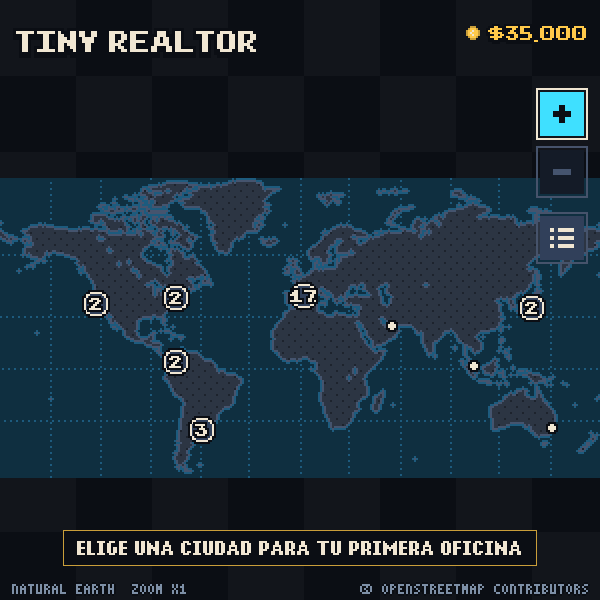
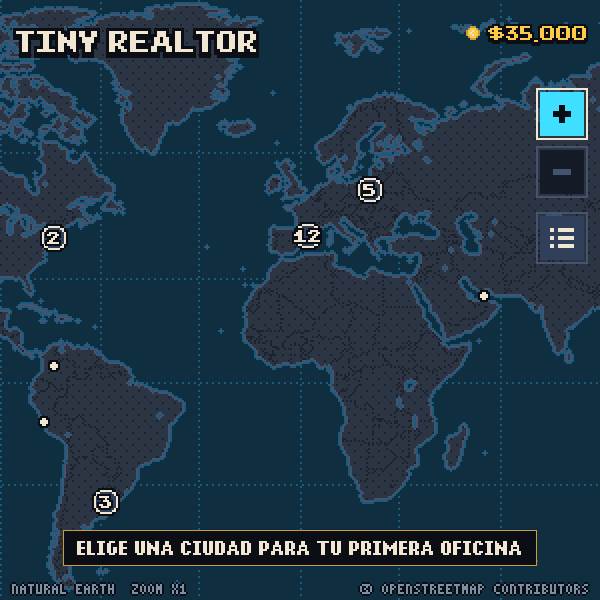
Fill the window with the world map at its farthest zoom
The farthest zoom is now the step whose map is as tall as the window, and the
map pans under the header and footer, so no backdrop shows above or below it.
Markers and clicks stay in the band between the bars.

Claude-Session: https://claude.ai/code/session_01NbsGb8LmPHM5TSczA1ajDg

diff --git a/CLAUDE.md b/CLAUDE.md
@@ -80,8 +80,10 @@ calls (`press`/`click`/`drag`/`hover`/`wheel`/`back`) in canvas coordinates.
   from `assets/world/world_<level>.png` (4 pictures baked by `tools/build_world.gd`, each art
   pixel 2x2 on screen), Miller projection cropped 84 N .. ~58 S so the map is exactly 2:1
   (`World.unit` / `lat_at` / `lon_at`). Zoom steps x1 x2 x4 x8 x16 (`World.STEPS`; x16 shows
-  the x8 picture at 4x4, `texture_level`), drag pans (the map covers the view where it is
-  bigger, else sits centred), wheel / - + zoom; the zoom and the view's middle are static, kept
+  the x8 picture at 4x4, `texture_level`); the screen starts at `WorldMap.STEP_MIN` (1), the
+  farthest step whose map is as tall as the window, so the map always covers the whole window
+  (under the header and footer; markers and clicks stay in the band between them, `_band`;
+  the footer counts zoom from that step as X1), drag pans, wheel / - + zoom; the zoom and the view's middle are static, kept
   for the session. Markers drawn live: a cream dot per `CityDb` city, a gold pin (the office
   view's pin sprite, `WorldMap.pin`) with the office count where the player has offices, and
   markers closer than `HIT` (48, >= MIN_HIT) on both axes grouped (`World.clusters`, offices'
